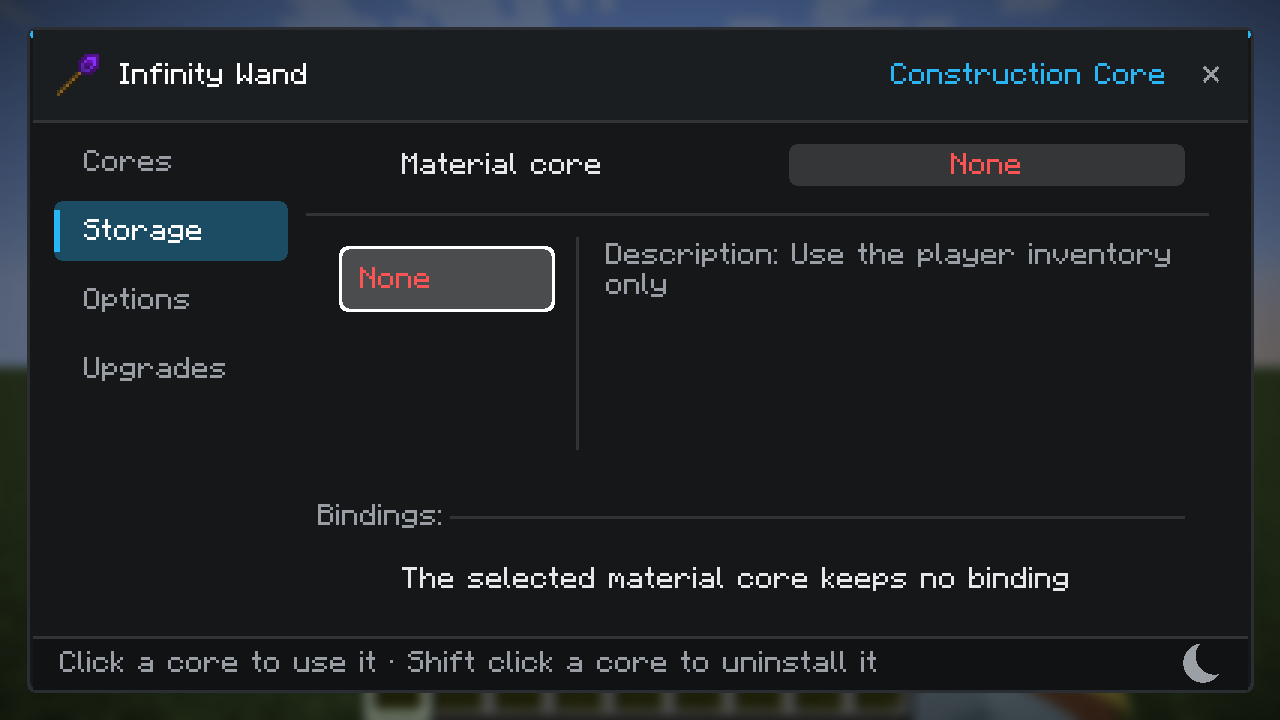
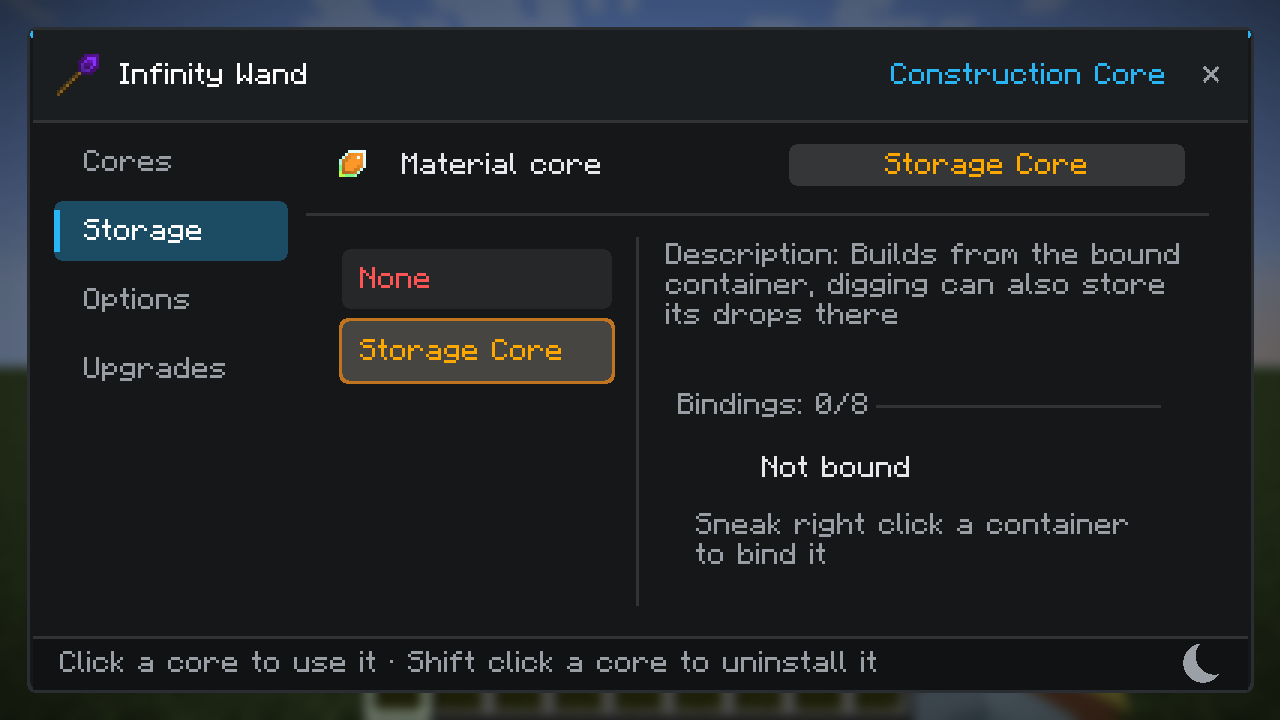
储存页：绑定信息移入右栏紧跟描述（v2.16.47）
- TwoColumn 支持 extra(List<WandRow>)：右栏在描述下排版、转发点击/拖拽/释放事件，高度计入
- buildStorage 把绑定行交给块；bindingRowAt 同步扫描块内 extras，拖动排序仍有效
- 绑定提示语改 Paragraph 折行，不再被窄栏截断
- 截图更新 docs/wand-screen-storage.png

diff --git a/src/main/java/dev/polaris_light/constructionwand/client/ui/WandRow.java b/src/main/java/dev/polaris_light/constructionwand/client/ui/WandRow.java
@@ -10,6 +10,7 @@ import net.minecraft.world.item.ItemStack;
 
 import javax.annotation.Nullable;
 
+import java.util.ArrayList;
 import java.util.List;
 import java.util.function.IntConsumer;
 
@@ -204,6 +205,8 @@ public abstract class WandRow
         private final IntConsumer onSelect;
         /** How tall the block is asked to be, so a short list still fills the page. */
         private final int fill;
+        /** Rows that belong under the description: they are laid out in the right hand column. */
+        private final List<WandRow> extras = new ArrayList<>();
 
         private int leftScroll;
         private boolean scrolledToSelection;
@@ -221,6 +224,27 @@ public abstract class WandRow
             this.description = description;
             this.fill = fill;
             this.onSelect = onSelect;
+        }
+
+        /**
+         * @param rows rows that belong under the description, such as the bindings of a storage core
+         */
+        public TwoColumn extra(List<WandRow> rows) {
+            extras.clear();
+            extras.addAll(rows);
+            return this;
+        }
+
+        public List<WandRow> extras() {
+            return extras;
+        }
+
+        private int extrasHeight() {
+            int total = 0;
+            for(WandRow row : extras) {
+                total += row.height() + 2;
+            }
+            return Math.max(0, total - 2);
         }
 
         /**
@@ -276,7 +300,9 @@ public abstract class WandRow
         @Override
         public int height() {
             Font font = Minecraft.getInstance().font;
-            return Math.max(viewport() + 2, descriptionLines(font).size() * TEXT_LINE) + 8;
+            int right = descriptionLines(font).size() * TEXT_LINE;
+            if(!extras.isEmpty()) right += 6 + extrasHeight();
+            return Math.max(viewport() + 2, right) + 8;
         }
 
         @Override
@@ -346,6 +372,32 @@ public abstract class WandRow
                 graphics.drawString(font, line, descriptionX(), descriptionTop, Ui.TEXT_DIM, false);
                 descriptionTop += TEXT_LINE;
             }
+
+            // What belongs under the description lives in this column too.
+            int extraTop = descriptionTop + 6;
+            for(WandRow extra : extras) {
+                extra.x = descriptionX();
+                extra.width = descriptionWidth();
+                extra.y = extraTop;
+                extra.render(graphics, font, mouseX, mouseY);
+                extraTop += extra.height() + 2;
+            }
+        }
+
+        @Override
+        public boolean mouseDragged(double mouseX, double mouseY, int button, double dragX, double dragY) {
+            for(WandRow extra : extras) {
+                if(extra.mouseDragged(mouseX, mouseY, button, dragX, dragY)) return true;
+            }
+            return false;
+        }
+
+        @Override
+        public boolean mouseReleased(double mouseX, double mouseY, int button) {
+            for(WandRow extra : extras) {
+                if(extra.mouseReleased(mouseX, mouseY, button)) return true;
+            }
+            return false;
         }
 
         @Override
@@ -362,6 +414,9 @@ public abstract class WandRow
 
         @Override
         public boolean mouseClicked(double mouseX, double mouseY, int button) {
+            for(WandRow extra : extras) {
+                if(extra.mouseClicked(mouseX, mouseY, button)) return true;
+            }
             if(button != 0 || !contains(mouseX, mouseY)) return false;
             // Only the left column is a list, the right one is the description.
             if(mouseX >= dividerX()) return false;

diff --git a/src/main/java/dev/polaris_light/constructionwand/client/ScreenWand.java b/src/main/java/dev/polaris_light/constructionwand/client/ScreenWand.java
@@ -438,20 +438,16 @@ public class ScreenWand extends Screen
      * to. The two belong together, a storage core without its bound containers has nothing to give.
      */
     private void buildStorage() {
-        // The bindings come last, but the list has to know how much room they need: they are built once into
-        // a scratch list to measure them, then the list is given what is left over.
-        List<WandRow> head = new ArrayList<>();
-        head.add(selectedCoreRow(text("gui.core.material"), wandOptions.materialCores));
-        head.add(new WandRow.Divider());
-
+        // The bindings sit under the description, inside the right hand column of the block, so they are
+        // built first and handed to the block instead of the page.
         rows.clear();
         buildBindings();
-        int bindings = rowsHeight();
+        List<WandRow> bindings = new ArrayList<>(rows);
 
         rows.clear();
-        rows.addAll(head);
-        rows.add(corePicker(wandOptions.materialCores, roomLeft(bindings)));
-        buildBindings();
+        rows.add(selectedCoreRow(text("gui.core.material"), wandOptions.materialCores));
+        rows.add(new WandRow.Divider());
+        rows.add(corePicker(wandOptions.materialCores, roomLeft(0)).extra(bindings));
     }
 
     /**
@@ -492,7 +488,7 @@ public class ScreenWand extends Screen
         return Math.max(WandRow.ROW_HEIGHT, contentHeightPixels - used - ROW_GAP - 12);
     }
 
-    private WandRow corePicker(WandUpgradesSelectable<IWandCore> option, int fill) {
+    private WandRow.TwoColumn corePicker(WandUpgradesSelectable<IWandCore> option, int fill) {
         IWandCore selected = option.get();
         List<WandRow.TwoColumn.Entry> entries = new ArrayList<>();
         for(IWandCore core : option.getUpgrades()) {
@@ -730,7 +726,7 @@ public class ScreenWand extends Screen
                             () -> removeBinding(bound)));
                 }
             }
-            rows.add(WandRow.Text.plain(text("gui.binding.hint_storage")));
+            rows.add(new WandRow.Paragraph(Component.empty(), text("gui.binding.hint_storage")));
             if(bounds.size() > 1) rows.add(WandRow.Text.plain(text("gui.hint.drag")));
             return;
         }
@@ -1087,7 +1083,16 @@ public class ScreenWand extends Screen
      */
     private int bindingRowAt(double mouseY) {
         int fallback = -1;
+        List<WandRow> candidates = new ArrayList<>();
         for(WandRow row : rows) {
+            if(row instanceof WandRow.TwoColumn block) {
+                candidates.addAll(block.extras());
+            }
+            else {
+                candidates.add(row);
+            }
+        }
+        for(WandRow row : candidates) {
             if(!(row instanceof WandRow.Binding binding)) continue;
             if(mouseY >= row.y && mouseY < row.y + row.height()) return binding.index;
             if(mouseY >= row.y) fallback = binding.index;

diff --git a/README-PLUS.md b/README-PLUS.md
@@ -28,6 +28,15 @@
 - `WandData.writeRoot/removeRoot/update`：同样只对手杖生效，任何漏网调用都写不进去。
 
 实测：手持 60 石头右键方块后 `components={…}` 里**没有** `custom_data`；手杖自己仍正常带 `wand_options`。
+## 储存页：绑定信息进右栏、紧跟描述文字下面（2.16.47）
+
+- `WandRow.TwoColumn` 增加 `extra(List<WandRow>)`：右栏在描述文字下面继续排这些行（自动设 x/宽度/高度，
+  并把 `mouseClicked`/`mouseDragged`/`mouseReleased` 转给它们），块高度把右栏内容算进去；
+- `buildStorage()` 改为先把绑定行构建到一个局部列表，再 `corePicker(...).extra(bindings)`，绑定信息就落在描述下面；
+- `bindingRowAt()` 也扫块的 extras，所以**拖动排序仍然有效**；
+- 绑定提示语改成 `Paragraph`（会折行），不再被窄栏裁成 `contai…`；
+- 截图 `docs/wand-screen-storage.png`：`描述：…` → `Bindings: 0/8` → `Not bound` → `Sneak right click a container to bind it`，全在右栏。
+
 ## 核心列表：文字回归核心色、列表按内容收窄、储存页保留绑定区（2.16.46）
 
 - **文字颜色**：不再用 `Ui.OK` 覆盖，一律 `Ui.TEXT`，让语言文件里的 `§` 颜色码生效——建筑核心（无颜色码）显示白色，
